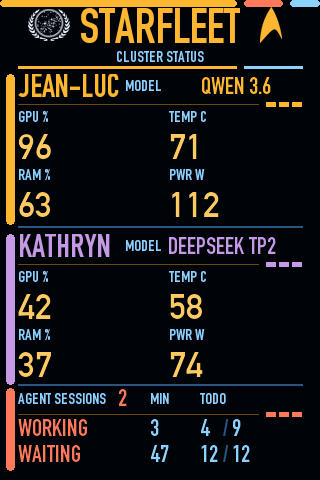
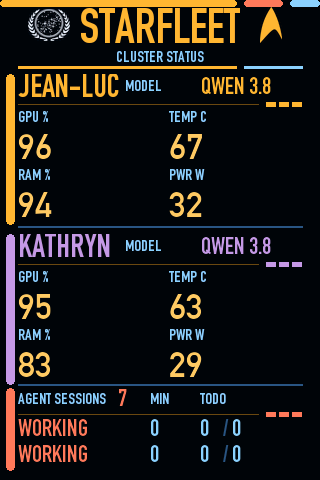
Panel preview: a real snapshot instead of made-up values
theme_preview.png is now drawn from both Sparks' opencode-status.py output
put through PanelController's rules (Qwen3.8 Flash TP=2 on both nodes, seven
sessions generating), and SAMPLE_VALUES matches it so a rebuild keeps it.

diff --git a/panel-theme/build_theme.py b/panel-theme/build_theme.py
@@ -313,17 +313,18 @@ MODEL_VARIANTS = ("", "3.5", "3.6", "3.8", "235B",
                   "3VL", "CASC", "OTRON", "31B", "TP2")
 
 # Only used to draw theme_preview.png -- never written to the device.
+# A real snapshot (2026-11-18): both Sparks' opencode-status.py output put through
+# PanelController.swift's rules -- Qwen3.8 Flash TP=2 resident on both nodes,
+# seven sessions generating, the two newest without a todo list.
 SAMPLE_VALUES = {
-    CH_JL_GPU: 96, CH_JL_TEMP: 71, CH_JL_RAM: 63, CH_JL_PWR: 112,
-    CH_KT_GPU: 42, CH_KT_TEMP: 58, CH_KT_RAM: 37, CH_KT_PWR: 74,
-    CH_AGENTS: 2,
-    CH_S1_STATUS: 1, CH_S1_AGE: 3, CH_S1_DONE: 4, CH_S1_TOTAL: 9,      # WORKING
-    CH_S2_STATUS: 3, CH_S2_AGE: 47, CH_S2_DONE: 12, CH_S2_TOTAL: 12,   # WAITING
-    # A composed pair on one node and the widest brand on the other, so the
-    # preview shows the seam and the longest string the field can hold.
+    CH_JL_GPU: 96, CH_JL_TEMP: 67, CH_JL_RAM: 94, CH_JL_PWR: 32,
+    CH_KT_GPU: 95, CH_KT_TEMP: 63, CH_KT_RAM: 83, CH_KT_PWR: 29,
+    CH_AGENTS: 7,
+    CH_S1_STATUS: 1, CH_S1_AGE: 0, CH_S1_DONE: 0, CH_S1_TOTAL: 0,      # WORKING
+    CH_S2_STATUS: 1, CH_S2_AGE: 0, CH_S2_DONE: 0, CH_S2_TOTAL: 0,      # WORKING
     CH_SCREENSAVER: 0,                      # the dashboard; the second preview sets this to 1
-    CH_JL_BRAND: 1, CH_JL_VARIANT: 2,                                  # QWEN3.6
-    CH_KT_BRAND: 5, CH_KT_VARIANT: 9,                                  # DEEPSEEK TP2
+    CH_JL_BRAND: 1, CH_JL_VARIANT: 3,                                  # QWEN3.8
+    CH_KT_BRAND: 1, CH_KT_VARIANT: 3,                                  # QWEN3.8
 }
 
 
